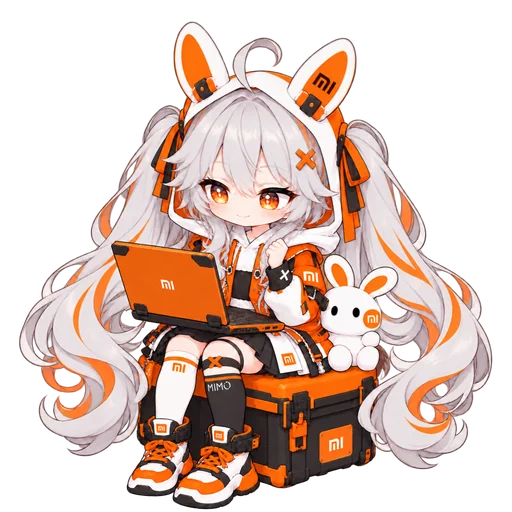
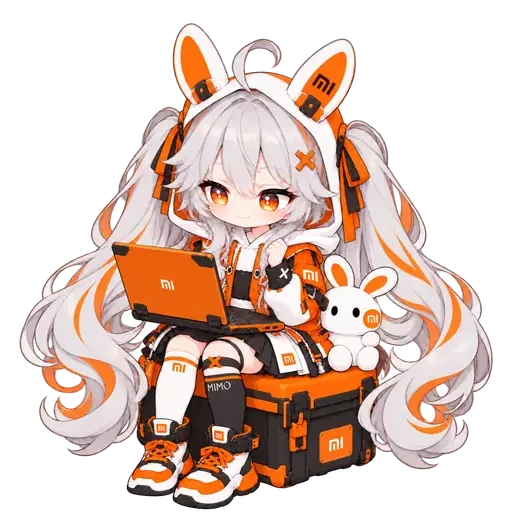
fix: done/error statics must not copy the working pose
Reduced-motion users see statics only. A one-shot's first frame copies
the working pose (contract §6), so "the frame furthest from idle" could
pick a static that looks like work is still running: MiniMax and MiMo
done statics were 2.4 / 2.3 from their working statics.

- validator: done/error static must differ from both the idle and the
  working static by >= 3 (two new unit tests)
- contract v1.7.3: the one-shot static is the reaction peak, the frame
  best separated from both idle and working
- re-export minimax/mimo done-static.webp from frame 3 of their own
  animations (hands clasped / fist raised)

diff --git a/scripts/validate-assets.py b/scripts/validate-assets.py
@@ -21,7 +21,8 @@ Checks every file under assets/<petId>/ against the contract.
   difference (0–255) of two 512×512 frames:
     - static ↔ animation: some frame of the state's animation is within
       12 of its static (the static is a key pose of that animation)
-    - done/error static must not be the idle static (diff ≥ 3)
+    - done/error static must differ from the idle and the working static
+      (diff ≥ 3 each)
     - pose continuity: done/error first frame within 20 of working's first
       frame, last frame within 20 of idle's first frame (contract §6)
     - loop seam: diff(last, first) ≤ 1.3 × the mean frame-to-frame step,
@@ -241,16 +242,22 @@ def check_static_match(pet_dir: Path, anims: dict, statics: dict, static_frames:
 
 
 def check_static_distinct(statics: dict, static_frames: dict, report: Report) -> None:
-    idle = static_frames.get("idle")
-    if idle is None:
-        return
+    """done/error statics must read as their own state next to idle and working.
+
+    Reduced-motion users see statics only, so a one-shot static that copies
+    the working pose (the animation's first frame) hides the outcome.
+    """
     for state in ("done", "error"):
         still = static_frames.get(state)
-        if still is not None and (d := diff(still, idle)) < STATIC_DISTINCT_MIN:
-            report.warn(
-                f"{statics[state]}: static is just the idle pose (diff {d:.1f} < {STATIC_DISTINCT_MIN:g} "
-                f"vs idle static) — show the {state} key pose"
-            )
+        if still is None:
+            continue
+        for other in ("idle", "working"):
+            ref = static_frames.get(other)
+            if ref is not None and (d := diff(still, ref)) < STATIC_DISTINCT_MIN:
+                report.warn(
+                    f"{statics[state]}: static is just the {other} pose (diff {d:.1f} < {STATIC_DISTINCT_MIN:g} "
+                    f"vs {other} static) — show the {state} reaction pose (contract §5.2)"
+                )
 
 
 def check_pose_continuity(pet_dir: Path, anims: dict, report: Report) -> None:

diff --git a/scripts/test_validate_assets.py b/scripts/test_validate_assets.py
@@ -140,6 +140,20 @@ class StaticIsIdleTest(unittest.TestCase):
         self.assertTrue(any("done.png" in w and "idle" in w for w in report.warnings), joined(report))
 
 
+class StaticIsWorkingTest(unittest.TestCase):
+    """Reduced-motion users see only statics: done/error must not look like working."""
+
+    def test_one_shot_static_identical_to_working_static_warns(self) -> None:
+        anims = {"error": [(3, None), (0, RED), (-2, RED), (0, RED)]}
+        report = run(lambda r: write_pet(r, anims=anims, statics={"error": (3, None)}))
+        self.assertTrue(any("error.png" in w and "working pose" in w for w in report.warnings), joined(report))
+
+    def test_one_shot_static_on_its_reaction_pose_is_fine(self) -> None:
+        anims = {"error": [(3, None), (0, RED), (-2, RED), (0, RED)]}
+        report = run(lambda r: write_pet(r, anims=anims, statics={"error": (-2, RED)}))
+        self.assertFalse(any("working pose" in w for w in report.warnings), joined(report))
+
+
 SEATED_WORKING = [(0, None, True), (3, None, True), (6, None, True), (3, None, True)]
 
 

diff --git a/docs/pet-contract.md b/docs/pet-contract.md
@@ -1,4 +1,11 @@
-# Pet Asset Contract v1.7.2 (frozen for Batch 1)
+# Pet Asset Contract v1.7.3 (frozen for Batch 1)
+
+Changelog v1.7.2 → v1.7.3 (enforcement only): a `done` / `error` static
+must also differ from the **working** static (diff ≥ 3), not only from
+idle. Reduced-motion users see statics only, and a one-shot's first frame
+copies the working pose (§6), so picking "the frame furthest from idle"
+could land on a static that looks like work is still running. The static
+is the reaction peak: the frame best separated from both idle and working.
 
 Changelog v1.7.1 → v1.7.2 (enforcement only): `diff` now compares
 premultiplied RGBA, so colour left under fully transparent pixels (invisible,
@@ -171,7 +178,7 @@ dimming, working glow) may touch every pixel.
    generated only after the pilot renders correctly in the plugin. Style
    consistency across pets comes from the shared style guide, not from
    generating them simultaneously.
-2. Per state: `<state>.webp` (animated) **and** a static fallback (= representative key pose of the state, not frame 1 — e.g. `working`'s static shows mid-keystroke, so reduced-motion mode never looks idle). Static form is either `<state>.png` (≤ 150 KB) or, when the PNG is entropy-limited above that budget (detail-rich art), `<state>-static.webp` (lossy, ≤ 100 KB). The `-static` suffix always lands in the static slot regardless of extension (host v1.5).
+2. Per state: `<state>.webp` (animated) **and** a static fallback (= representative key pose of the state, not frame 1 — e.g. `working`'s static shows mid-keystroke, so reduced-motion mode never looks idle; `done` / `error` show the reaction peak — the frame best separated from both the idle and the working statics, never the first frame that still copies working). Static form is either `<state>.png` (≤ 150 KB) or, when the PNG is entropy-limited above that budget (detail-rich art), `<state>-static.webp` (lossy, ≤ 100 KB). The `-static` suffix always lands in the static slot regardless of extension (host v1.5).
 3. Frame caps (make the byte budget achievable): ≤ 12 fps everywhere; frame
    count ≤ 36 (`idle`), ≤ 14 (`working`), ≤ 14 (`done`), ≤ 14 (`error`),
    ≤ 48 (`sleeping`). Lossy WebP is fine — sprites tolerate it.
@@ -228,7 +235,7 @@ Per pet (cross-file). `diff` = mean absolute difference (0–255) of two
 | Check | Rule | Level |
 |---|---|---|
 | static ↔ animation | some frame of the state's animation within 12 of its static — the static is a key pose of that animation (§5.2) | warning |
-| distinct one-shot statics | `done` / `error` static differs from the idle static by ≥ 3 | warning |
+| distinct one-shot statics | `done` / `error` static differs from the idle static **and** the working static by ≥ 3 each | warning |
 | pose continuity | `done` / `error`: first frame within 20 of working's first frame, last frame within 20 of idle's first frame (§6) | warning |
 | loop seam | `idle` / `working` / `sleeping`: diff(last, first) ≤ 1.3 × the mean frame-to-frame step, and the last frame must not repeat the first (diff < 0.05) | warning |
 | centering | horizontal centre of each state's first frame (alpha > 16 bbox) within 16 px across the pet's states | warning |
